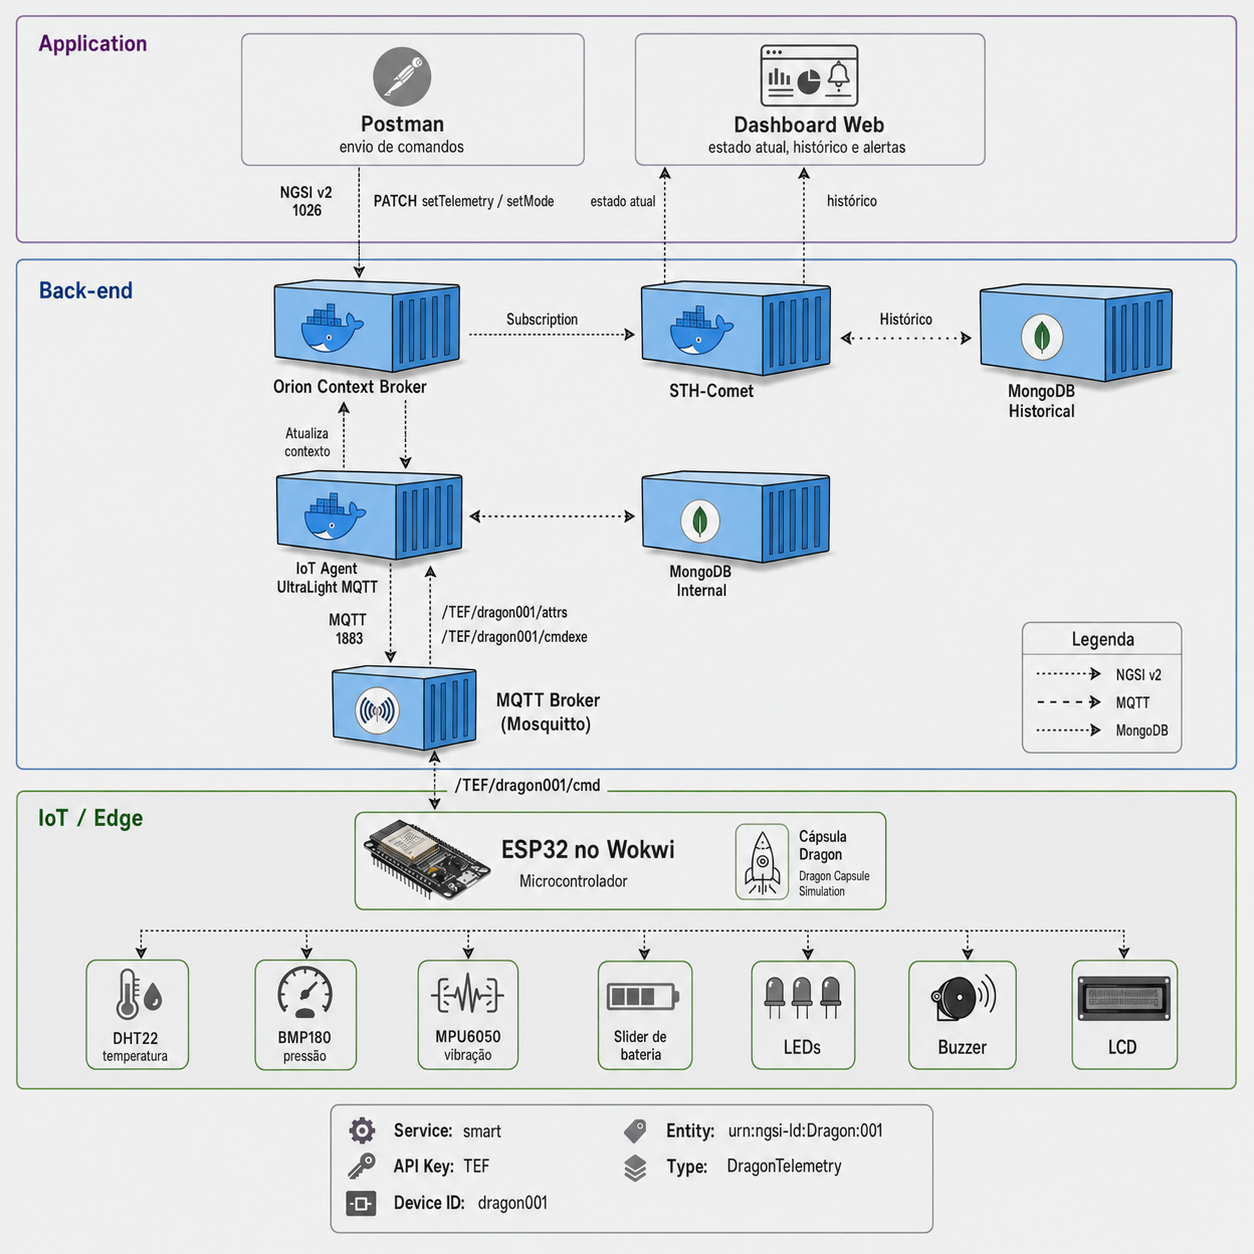
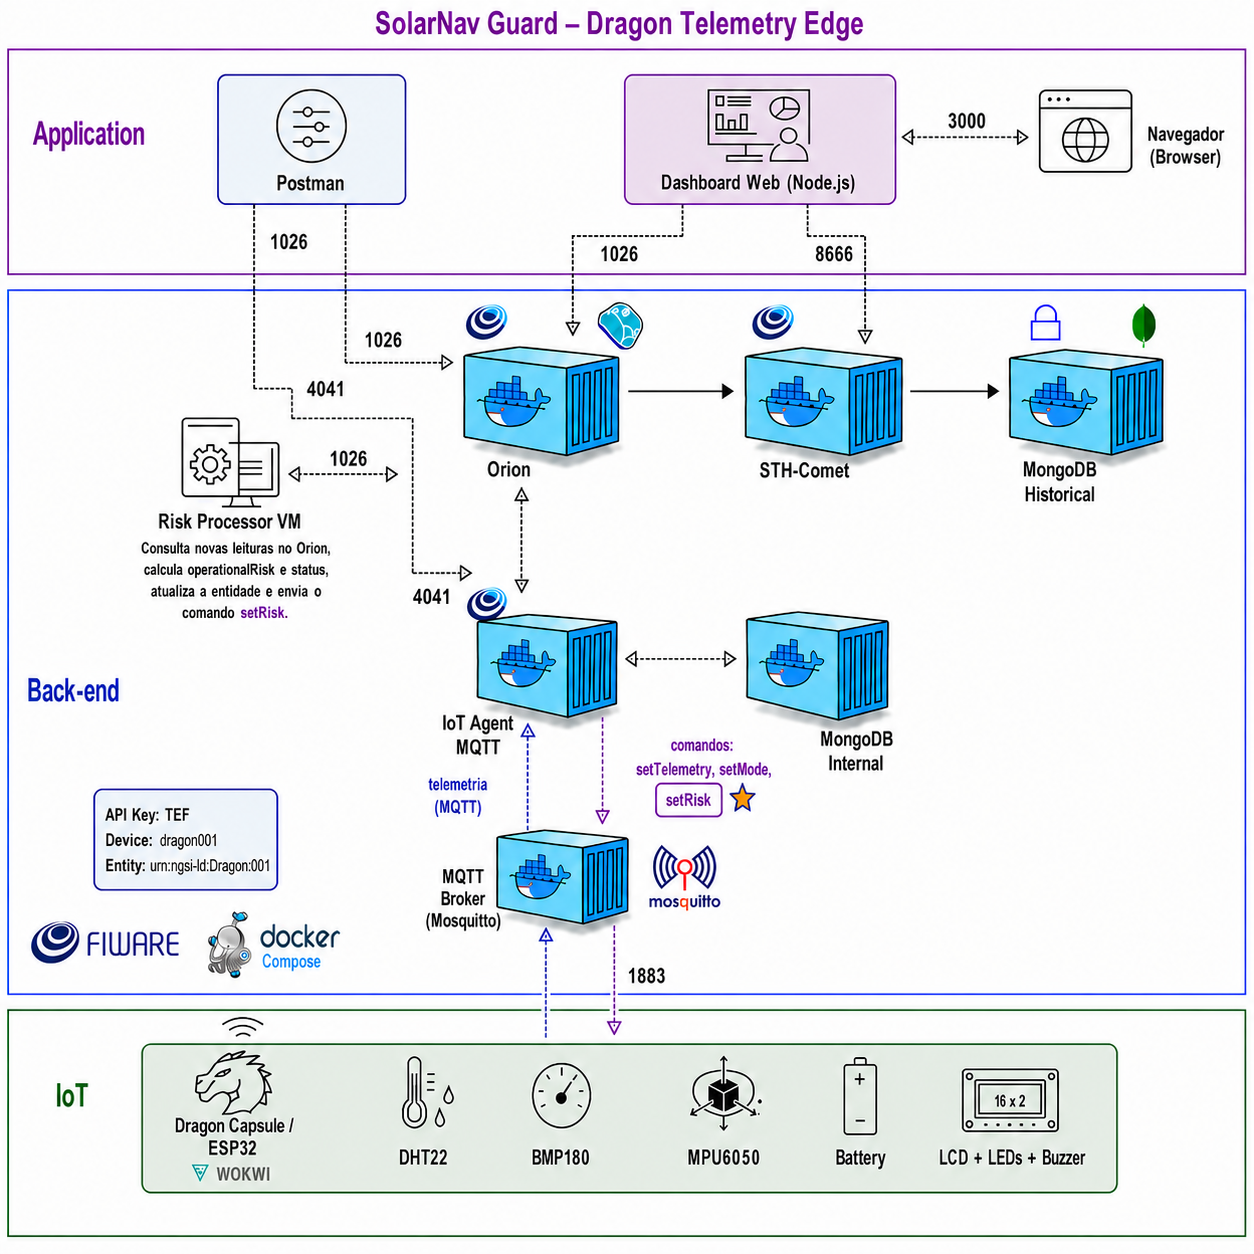
Atualiza diagrama de arquitetura do projeto

Changed region(s): [[0.0, 0.0, 0.9952, 0.9952], [0.9641, 0.9641, 0.9952, 0.9952], [0.7775, 0.0311, 0.8086, 0.0622]]

diff --git a/docs/arquitetura.md b/docs/arquitetura.md
@@ -1,20 +1,6 @@
 # Arquitetura - SolarNav Guard Dragon Telemetry
 
-```mermaid
-flowchart TB
-  P[Postman] -->|setTelemetry / setMode| O[Orion]
-  D[Dashboard] -->|estado atual| O
-  D -->|historico| S[STH-Comet]
-  O --> S
-  O --> R[Processador de risco na VM]
-  R -->|operationalRisk / status| O
-  R -->|setRisk| O
-  O <--> I[IoT Agent UltraLight]
-  I <--> M[Mosquitto]
-  M <--> E[ESP32 no Wokwi]
-  E --> Sensores[DHT22 / BMP180 / MPU6050 / bateria]
-  E --> Atuadores[LEDs / buzzer / LCD]
-```
+![Arquitetura SolarNav Guard](images/arquitetura-solarnav.png?v=20260610-1)
 
 ## Responsabilidades
 

diff --git a/README.md b/README.md
@@ -26,6 +26,8 @@ dashboard web.
 
 ## Arquitetura
 
+![Arquitetura SolarNav Guard](docs/images/arquitetura-solarnav.png?v=20260610-1)
+
 Mais detalhes em [docs/arquitetura.md](docs/arquitetura.md).
 
 ## Telemetria